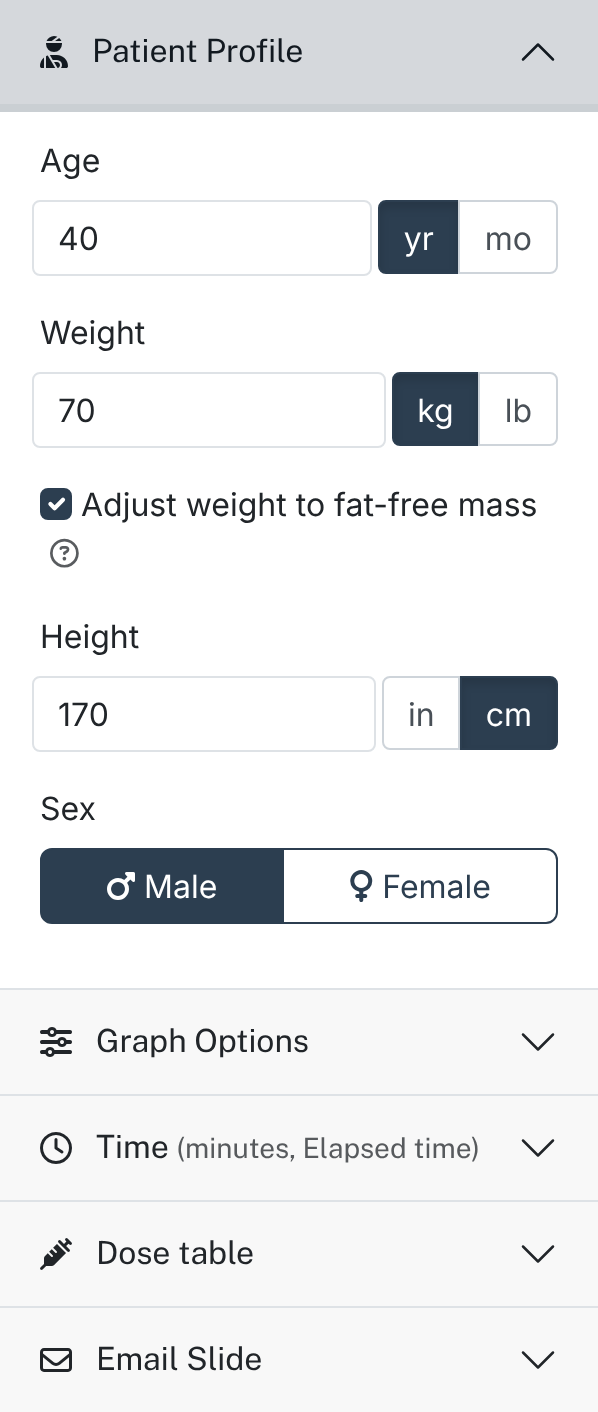
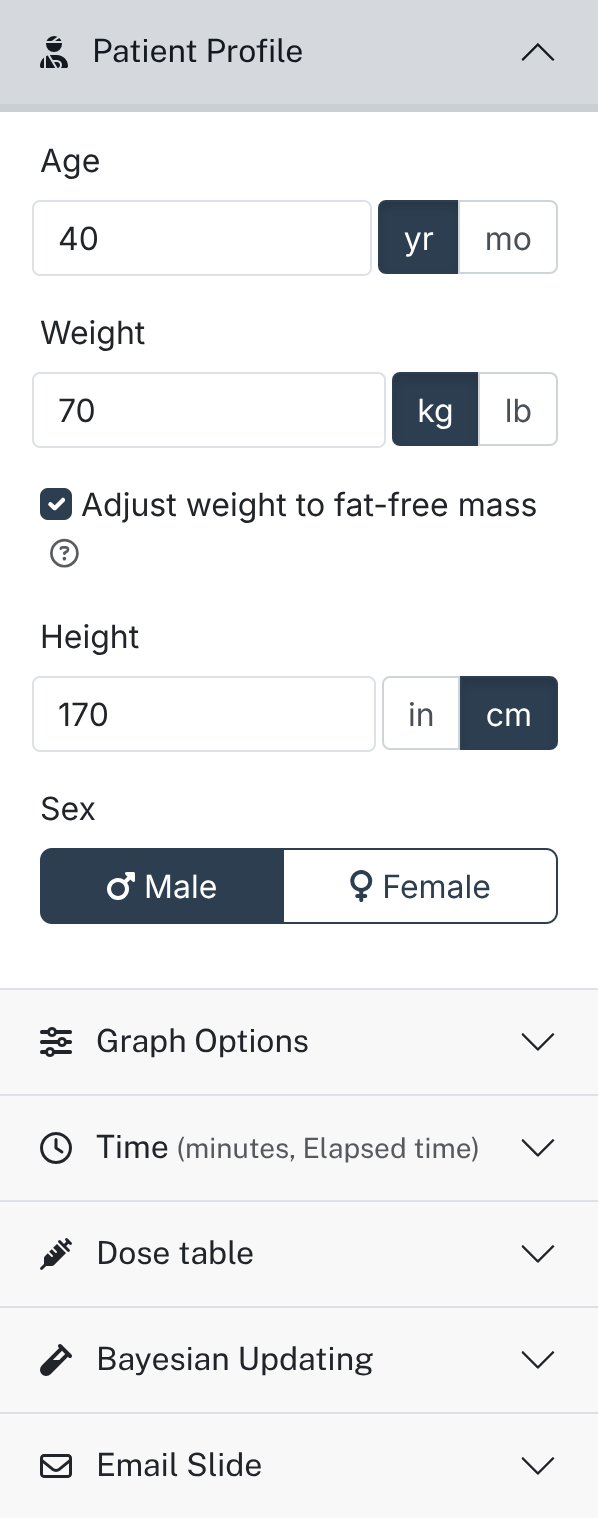
The five-minute tour: step 7, Bayesian updating
The tour (inst/help/quick-start.md) gains a seventh step, "Update from
measured levels": what the Bayesian Updating panel's table, sliders and
estimate are, and what the points, the updated curve and the population
line on the plot mean, with a picture made from a new teaching scenario.
The help's home page says the curves are the model's prediction unless
measurements are entered, and lists the panel among the sidebar's.

A teaching scenario can now carry measured concentrations
(helpScenario(measurements = helpMeasurements(...))), checked against its
doses and its plot by helpScenarioCheck(), listed on its page with the two
variabilities, and put into the panel by applyHelpScenario() (a scenario
without them clears the table; both sliders are set).  The first is
warfarin-bayesian-inr: genotype untested, so the model assumes VKORC1 AA
and predicts an INR heading for 4 on 5 mg/day; INRs of 1.3, 1.6, 1.9 and
2.2 on days 3-10 give clearance x1.45, volume x1.3, and an updated INR
settling near 2.4.

A ?scenario= link loads its scenario while app_server() is still running,
so bayesianServer() is now created before helpServer(); created after it,
a link to a scenario with measurements would have ended the session
(tested).

data-raw/help-screenshots.js makes the new picture and takes
--no-visualizer; the tour's other pictures are recaptured with it, since
every sidebar picture showed the panel headers from before Bayesian
[…]

diff --git a/data-raw/help-screenshots.js b/data-raw/help-screenshots.js
@@ -9,10 +9,14 @@
 //    "stanpumpR" and whose debug is 0 (no Debug Section under the plot):
 //      Rscript -e 'devtools::load_all("."); shiny::runApp(run_app(), port = 7788)'
 // 2. From the repository root, with Playwright installed:
-//      node data-raw/help-screenshots.js [http://127.0.0.1:7788] [--visualizer]
+//      node data-raw/help-screenshots.js [http://127.0.0.1:7788] [--visualizer | --no-visualizer]
 //    --visualizer remakes only the Visualizer's four pictures (a drug and an
 //    inhaled anesthetic, each in the 2D and the 3D view), from the
-//    visualizer-propofol-bolus and visualizer-sevoflurane-emergence scenarios.
+//    visualizer-propofol-bolus and visualizer-sevoflurane-emergence scenarios;
+//    --no-visualizer remakes every picture but those four.
+//
+// Step 7's picture, the Bayesian Updating panel, is made from the
+// warfarin-bayesian-inr scenario, which carries four measured INRs.
 //
 // Every capture is at twice the CSS pixel size, as the help displays them
 // scaled down.
@@ -22,6 +26,7 @@ const path = require('path');
 
 const BASE = (process.argv.slice(2).find(a => !a.startsWith('--')) || 'http://127.0.0.1:7788').replace(/\/+$/, '');
 const ONLY_VISUALIZER = process.argv.includes('--visualizer');
+const NO_VISUALIZER = process.argv.includes('--no-visualizer');
 const OUT = path.join(__dirname, '..', 'inst', 'www', 'help');
 const SCENARIO = 'propofol-induction-maintenance';
 const VIEWPORT = { width: 1400, height: 820 };
@@ -82,8 +87,10 @@ async function visualizer(browser, scenario, T, name) {
   // The Visualizer (step 6 of the tour): a propofol bolus at 1.6 minutes, its
   // effect site at its peak; sevoflurane five minutes after the vaporizer is
   // turned off.
-  await visualizer(browser, 'visualizer-propofol-bolus', 96, 'propofol');
-  await visualizer(browser, 'visualizer-sevoflurane-emergence', 125 * 60, 'sevoflurane');
+  if (!NO_VISUALIZER) {
+    await visualizer(browser, 'visualizer-propofol-bolus', 96, 'propofol');
+    await visualizer(browser, 'visualizer-sevoflurane-emergence', 125 * 60, 'sevoflurane');
+  }
   if (ONLY_VISUALIZER) { await browser.close(); return; }
 
   // The opening dialog, as on a first visit (a fresh browser has no record
@@ -126,6 +133,25 @@ async function visualizer(browser, scenario, T, name) {
     await openPanel(page, 'Graph Options');
     await openPanel(page, 'time');
     await sidebar.screenshot({ path: out('time') });
+    await page.close();
+  }
+
+  // Bayesian updating (step 7 of the tour): the warfarin scenario, whose four
+  // measured INRs go into the Bayesian Updating table, with that panel open
+  // once the estimate is written under it; the whole window, so the panel and
+  // the plot (the points, the updated line and the population line) are seen
+  // together.
+  {
+    const page = await browser.newPage({ viewport: { width: VIEWPORT.width, height: 1240 },
+                                          deviceScaleFactor: 2 });
+    await page.goto(`${BASE}/?scenario=warfarin-bayesian-inr`);
+    await page.waitForSelector('#PlotSimulation img', { timeout: 60000 });
+    await settle(page, 2000);
+    await page.addStyleTag({ content: '#shiny-notification-panel { display: none !important; }' });
+    await openPanel(page, 'bayes');
+    await page.waitForSelector('#bayesSummary .bayes-fit', { timeout: 120000 });
+    await settle(page, 2000);
+    await page.screenshot({ path: out('bayesian') });
     await page.close();
   }
 

diff --git a/AGENTS.md b/AGENTS.md
@@ -43,7 +43,7 @@ First-time local setup: copy `config.yml.sample` → `config.yml`
 
 **Antiseizure drug interactions** (`R/antiseizureInteractions.R`): Graph Options **Include antiseizure drug interactions** (`input$antiseizureInteractions`, scenario option `antiseizureInteractions`, enabled while the dose table holds an interacting pair or carbamazepine) applies the pharmacokinetic interactions among the epilepsy drugs — enzyme induction (carbamazepine, phenytoin, phenobarbital) of lamotrigine, valproate, topiramate, tiagabine, lacosamide, eslicarbazepine, cenobamate, zonisamide (Silva 2025 `1.63^INDDL`) and ethosuximide (Giaccone 1996, pooled `CL x1.66`), ethosuximide's own induction of lamotrigine (Hagemann 2024, adult `CL x1.16`; larger in children), inhibition and albumin displacement (valproate, including a variable `CL x0.85` on ethosuximide from Pisani 1984), zonisamide on phenytoin's Km, and carbamazepine's autoinduction. The interactions and their verified PMIDs are `inst/extdata/antiseizureInteractions.csv` (built by `data-raw/antiseizureInteractions.R`, checked by `test-antiseizure-interactions.R`); 35 applied rows, the four required victims (phenytoin, valproate, lamotrigine, carbamazepine) among them, plus zonisamide and ethosuximide as victims and ethosuximide as a perpetrator (lacosamide is induced by all three of carbamazepine, phenobarbital and phenytoin — the phenytoin row from Contin 2013, `CL x1.44`); 14 cross-check rows (the consensus reviews Patsalos & Perucca 2003, Riva 1996, Spina 1996, Tanaka 1999 and the secondary lamotrigine/zonisamide/valproate-binding/ethosuximide studies) and 10 recorded (not applied). Several inducer factors (topiramate, tiagabine, lacosamide, ethosuximide) are *pooled* any-inducer covariates applied per inducer row, which over-predicts a multi-inducer regimen under additive-excess — a structural limitation flagged in `docs/antiseizure-interactions-review.md` for the engine-level review. Each interaction is a saturable function of the perpetrator's own plotted concentration, `fold(C) = 1 + (Fmax-1) C/(EC50+C)`, calibrated so `fold(Cref)` is the published categorical factor at the perpetrator's typical band value `Cref` (EC50 defaults to the band's lower edge; `ec50_basis` records it); inductions run through an enzyme-turnover model `dE/dt = kdeg(fold-E)` with a de-induction half-life of 86.1 h (Punyawudho 2009), inhibition and displacement are immediate. Several inducers of one victim add in their excess, `1 + sum(Ei-1)`; inhibitions multiply. `processdoseTable(..., antiseizureInteractions = TRUE)` calls `applyAntiseizureInteractions()` after every drug is simulated alone: it computes each victim's multipliers from the perpetrators' concentrations, cuts them into near-constant segments (`asmSegments()`, `ASM_INTERACTION_TOLERANCE`), rebuilds the victim's PK with one set per clearance segment (`asmSegmentPK()`, which needs the covariates `getDrugPK()` now keeps for every `asmInteractionVictims()` drug) and re-simulates through the event engine, or for phenytoin feeds Vmax/Km multipliers to `advanceMichaelisMenten()` via `PK$interactionMM`; victims are also perpetrators, so it iterates to a fixed point (`ASM_INTERACTION_CONVERGENCE`, `ASM_INTERACTION_MAX_ITERATIONS`). `simCpCe()` reads a victim's segment events from `PK$interactionEvents`. Each changed drug is drawn beside its own uninteracted curve through the companion mechanism (`addAntiseizureReferenceEntries()` builds a `companionOf` entry `"<drug> (no interactions)"`; `alternativeModelParent()` maps it back). Help page `inst/help/models/antiseizure-interactions.md` (generated blocks `antiseizure-interaction-table`, `antiseizure-interaction-sources`); scenarios `valproate-lamotrigine-inhibition`, `carbamazepine-lamotrigine-deinduction`, `carbamazepine-autoinduction`, `phenytoin-valproate-displacement`, `carbamazepine-phenytoin-induction`. Not modelled: unbound phenytoin (totals are plotted), metabolites (the epoxide), drugs outside the group, and any interaction only a product label quantifies (rows with `status` `recorded`).
 
-**Bayesian updating** (`R/bayesian.R`, `R/bayesian-server.R`; Shafer, 2026-11-13; help page `inst/help/models/bayesian.md`): a sidebar panel, **Bayesian Updating**, holds a table grid of measured concentrations (Drug, from the committed dose table; Time, typed in the dose table's format and kept as text with the format it was typed in, converted when the format changes; Conc., in the units of the drug's plot, so the INR for warfarin and the ACT for heparinCPB) and two sliders, **PK variability** (CV %, default 25) and **Residual variability** (CV %, default 5; named "residual", not "assay", by Shafer, because it also carries timing and model error). A complete row takes effect as it is entered (the grid sends every commit; debounced, no Apply). `bayesUpdate()` in `app_server()` sits between `drugPK()` and `processdoseTable()`: `bayesianUpdateDrugs()` finds the maximum a posteriori **clearance and volume factors** of each measured drug and rebuilds it through `getDrugPK(individual = list(clearance, volume))`, which applies `individualizeModel()` to the model's own parameters before anything is derived. The scaling is BAYES.C's (the original STANPUMP, Maitre and Shafer: CL and V1 estimated, k12/k21/k13/k31 fixed), for every engine: the volume factor multiplies every volume AND every intercompartmental clearance (so the distribution rate constants are the model's); the clearance factor multiplies cl1, a Michaelis-Menten drug's Vmax and clLinear (Km unchanged); a metabolite's kFormation moves by clearance/volume (with k10); parallel systems (warfarin's R) take both factors; a target capacity held as an amount moves with the volume. Absorption, bioavailability, ke0/tPeak and the INR/ACT links are the model's. `PK$individual` is kept so `doseSizePK()` and `asmSegmentPK()` rebuild the individual's drug. Both variabilities are **log-normal** (Shafer: a parameter or a concentration cannot go negative; 0.1X is as far as 10X): eta = log(factor), sd `bayesianSD(cv) = sqrt(log(1 + cv^2))`, objective `sum(eta^2)/omega^2 + sum((log meas - log pred)^2)/sigma^2` (Vozeh 1985, as BAYES.C's funk(); only the ratio omega/sigma moves the estimate), `optim()` L-BFGS-B from 0 within `BAYES_FACTOR_LIMIT` (20x) either way. The prediction is what the plot draws: `processdoseTable()` on the drug (plus its metabolite parents, or every drug with the antiseizure interactions on) under `withOutputTimes()`, `$wide$Plasma`; drugs are updated in dose-table order. A level at or before the drug's first dose is set aside and said; fits are cached by key (`bayesFitCache`). The model's own drug is kept as a companion entry `"<drug> (population)"` (`companionGroup` "bayesian", `helpPage` models/bayesian; `alternativeModelParent()` maps it back; `foldMetabolites()` now skips every companion as a metabolite source, which this companion would otherwise double), and `simulationPlot(observations =)` draws the measurements as points on the drug's panel (not under normalization). The measurements travel in a bookmark as `state$values$bayes` (minutes), read back as untrusted input by `restoredBayesObservations()`. Checked against **mapbayr** 0.10.2 (Le Louedec 2021) on an mrgsolve two-compartment vancomycin with the same priors and log-transformed residual: factors 0.6111885/0.7970002 against ours 0.6111886/0.7970008; `test-bayesian.R` pins those values and reruns mapbayr live where it is installed (it is not a dependency). The original STANPUMP's generic case entered omega 0.26 and sigma 0.05 commented as "30%", but funk() divides by them unsquared, so they acted as variances (about 51% and 22% CV) — recorded in `R/constants.R`, not reproduced.
+**Bayesian updating** (`R/bayesian.R`, `R/bayesian-server.R`; Shafer, 2026-11-13; help page `inst/help/models/bayesian.md`): a sidebar panel, **Bayesian Updating**, holds a table grid of measured concentrations (Drug, from the committed dose table; Time, typed in the dose table's format and kept as text with the format it was typed in, converted when the format changes; Conc., in the units of the drug's plot, so the INR for warfarin and the ACT for heparinCPB) and two sliders, **PK variability** (CV %, default 25) and **Residual variability** (CV %, default 5; named "residual", not "assay", by Shafer, because it also carries timing and model error). A complete row takes effect as it is entered (the grid sends every commit; debounced, no Apply). `bayesUpdate()` in `app_server()` sits between `drugPK()` and `processdoseTable()`: `bayesianUpdateDrugs()` finds the maximum a posteriori **clearance and volume factors** of each measured drug and rebuilds it through `getDrugPK(individual = list(clearance, volume))`, which applies `individualizeModel()` to the model's own parameters before anything is derived. The scaling is BAYES.C's (the original STANPUMP, Maitre and Shafer: CL and V1 estimated, k12/k21/k13/k31 fixed), for every engine: the volume factor multiplies every volume AND every intercompartmental clearance (so the distribution rate constants are the model's); the clearance factor multiplies cl1, a Michaelis-Menten drug's Vmax and clLinear (Km unchanged); a metabolite's kFormation moves by clearance/volume (with k10); parallel systems (warfarin's R) take both factors; a target capacity held as an amount moves with the volume. Absorption, bioavailability, ke0/tPeak and the INR/ACT links are the model's. `PK$individual` is kept so `doseSizePK()` and `asmSegmentPK()` rebuild the individual's drug. Both variabilities are **log-normal** (Shafer: a parameter or a concentration cannot go negative; 0.1X is as far as 10X): eta = log(factor), sd `bayesianSD(cv) = sqrt(log(1 + cv^2))`, objective `sum(eta^2)/omega^2 + sum((log meas - log pred)^2)/sigma^2` (Vozeh 1985, as BAYES.C's funk(); only the ratio omega/sigma moves the estimate), `optim()` L-BFGS-B from 0 within `BAYES_FACTOR_LIMIT` (20x) either way. The prediction is what the plot draws: `processdoseTable()` on the drug (plus its metabolite parents, or every drug with the antiseizure interactions on) under `withOutputTimes()`, `$wide$Plasma`; drugs are updated in dose-table order. A level at or before the drug's first dose is set aside and said; fits are cached by key (`bayesFitCache`). The model's own drug is kept as a companion entry `"<drug> (population)"` (`companionGroup` "bayesian", `helpPage` models/bayesian; `alternativeModelParent()` maps it back; `foldMetabolites()` now skips every companion as a metabolite source, which this companion would otherwise double), and `simulationPlot(observations =)` draws the measurements as points on the drug's panel (not under normalization). The measurements travel in a bookmark as `state$values$bayes` (minutes), read back as untrusted input by `restoredBayesObservations()`, and in a teaching scenario as `helpScenario(measurements = helpMeasurements(...))` (scenario `warfarin-bayesian-inr`, step 7 of the five-minute tour, `inst/help/quick-start.md`, whose picture `data-raw/help-screenshots.js` makes from it): `applyHelpScenario()` hands them to the panel's `restore()` (an empty table clears it) and sets both sliders, which is why `bayesianServer()` is created before `helpServer()` in `app_server()` — a `?scenario=` link loads its scenario while `app_server()` is still running. Checked against **mapbayr** 0.10.2 (Le Louedec 2021) on an mrgsolve two-compartment vancomycin with the same priors and log-transformed residual: factors 0.6111885/0.7970002 against ours 0.6111886/0.7970008; `test-bayesian.R` pins those values and reruns mapbayr live where it is installed (it is not a dependency). The original STANPUMP's generic case entered omega 0.26 and sigma 0.05 commented as "30%", but funk() divides by them unsquared, so they acted as variances (about 51% and 22% CV) — recorded in `R/constants.R`, not reproduced.
 
 **Dose table lifecycle**: edits land in a draft held by an `{undomanager}` (`doseTableHistory()`, with `doseTableDraft()` a thin reactive over its `$value`) that owns the undo/redo history; `Apply` commits it to the canonical `doseTable()`; `doseTableClean()` (cleaned via `cleanDoseTable()` in `input-tables.R`) is what the rest of the pipeline actually reads. Clicking the plot to add/edit a dose bypasses the draft and applies immediately, and any direct write to `doseTable()` resets the draft and clears the history.
 

diff --git a/inst/help/quick-start.md b/inst/help/quick-start.md
@@ -1,7 +1,7 @@
-Five steps produce a simulation, and a sixth lets you watch it: the Visualizer shows the drug moving between the compartments of its model. Everything else in this help is refinement.
+Five steps produce a simulation, a sixth lets you watch it (the Visualizer shows the drug moving between the compartments of its model), and a seventh fits it to the patient: Bayesian updating adjusts a drug's model to concentrations measured during care. Everything else in this help is refinement.
 
 <figure class="help-figure">
-<img src="stanpumpr-assets/help/quick-start-simulator.png" alt="The simulator: on the left the Patient Profile, Graph Options, Time, Dose table and Email Slide panels; the plot in the middle with the Add new drug button beneath it; the dose table on the right with Apply Changes, Undo and Redo">
+<img src="stanpumpr-assets/help/quick-start-simulator.png" alt="The simulator: on the left the Patient Profile, Graph Options, Time, Dose table, Bayesian Updating and Email Slide panels; the plot in the middle with the Add new drug button beneath it; the dose table on the right with Apply Changes, Undo and Redo">
 <figcaption>The simulator. Patient, graph and time settings on the left, the plot in the middle, the dose table on the right.</figcaption>
 </figure>
 
@@ -113,6 +113,24 @@ The **inhaled anesthetics** are shown the same way, as **partial pressures**: in
 </figure>
 
 [Watching a propofol bolus redistribute](help:scenarios/visualizer-propofol-bolus) and [Watching sevoflurane leave the body](help:scenarios/visualizer-sevoflurane-emergence) are the runs above, with what to look for; the other runs made to be watched are in the *Seeing the compartments* group of the [teaching scenarios](help:scenarios/index).
+
+## 7. Update from measured levels
+
+For a drug measured during care (an INR for warfarin; a level of amiodarone, phenytoin, digoxin, vancomycin or an immunosuppressant), open **Bayesian Updating** in the left sidebar. Each row of its table is one measurement: the *Drug* (any drug in the dose table), the *Time* it was drawn, typed as the dose table's times are, and the measured value in *Conc.*, in the units of that drug's plot (listed under the table; the INR for warfarin).
+
+<figure class="help-figure">
+<img src="stanpumpr-assets/help/quick-start-bayesian.png" alt="The simulator with the Bayesian Updating panel open: four warfarin INRs in its table, the PK variability slider at 25% and the Residual variability slider at 5%, the estimate (clearance and volume as multiples of the model's) and a table of measured, model and updated INRs; on the plot the four INRs as points, the updated INR line through them and the lighter warfarin (population) line above">
+<figcaption>Four INRs measured during a warfarin start. The updated line (dark) passes through them; the model's own prediction, <em>warfarin (population)</em>, stays beside it (light).</figcaption>
+</figure>
+
+A row takes effect as soon as it is complete; there is no Apply. stanpumpR then finds the clearance and volume that best balance the measurements against the model (a maximum a posteriori Bayesian estimate) and redraws the drug with them:
+
+- The **points** are the measurements, and the **updated curve** is the drug as the patient handles it. The model's own curve stays in the same panel, lighter, as *(population)*.
+- Under the table, the estimate is written out (clearance and volume as multiples of the model's), with each measurement beside the model's prediction and the updated one.
+- **PK variability** (25%) is how far the patient may be from the model; **Residual variability** (5%) is how far a measurement may be from the patient's own curve, which takes in the assay and errors in the recorded times. Raise the residual variability to trust each measurement less.
+- Everything downstream uses the updated drug: change a dose, and the prediction is the patient's.
+
+[Warfarin: updating the model from measured INRs](help:scenarios/warfarin-bayesian-inr) loads the run above. [Bayesian updating from measured concentrations](help:models/bayesian) explains what is estimated and its cautions.
 
 ## Try it
 

diff --git a/inst/help/scenarios/warfarin-bayesian-inr.md b/inst/help/scenarios/warfarin-bayesian-inr.md
@@ -1,0 +1,18 @@
+## What to look for
+
+A 62-year-old, 82 kg, 176 cm man is started on **warfarin 5 mg once a day**. His genotype has not been tested, so the Patient Profile keeps the defaults: CYP2C9 \*1/\*1 and **VKORC1 AA**, the most warfarin-sensitive genotype. stanpumpR assumes the most sensitive genotype on purpose, so that an untested patient's predicted INR errs high (see [Patient profile](help:patient-profile)). His INR is measured on the mornings of days 3, 5, 7 and 10, before that day's dose: **1.3, 1.6, 1.9 and 2.2**. The scenario puts those four values into the **Bayesian Updating** panel in the left sidebar. Open the panel to see them.
+
+- The measured INRs are the **points** on the *warfarin (INR)* panel. The **lighter line**, named *warfarin (population)* in the legend, is the model's own prediction for this patient: it passes well above the points and heads for an INR near 4.
+- The **darker line** is warfarin after the [Bayesian update](help:models/bayesian): the model's clearance and volume adjusted to the four measurements. Under the table the panel says by how much (*clearance x 1.45 (+45%), volume x 1.3 (+30%)*). The updated line passes close to every point and settles near **2.4**, inside the usual 2-3 target.
+- The small table under that gives each measured INR beside the model's prediction and the updated one.
+
+## Try next
+
+- Move **Residual variability** from 5% up to 20%. Each measurement now counts for less against the model, and the updated line moves back toward the population line. Only the ratio of the two variabilities changes the estimate.
+- Delete the day-10 INR from the table (or **Clear measurements** and type them in again one by one). Each row changes the estimate as soon as it is complete, and the fewer the measurements, the more the estimate keeps to the model.
+- Change **VKORC1** from AA to GG in the Patient Profile. The model's own prediction falls to near the measurements, and the update has much less to correct. The update attributes the whole difference to clearance and volume, because it has no way to tell a less sensitive patient from one who clears warfarin faster.
+- Change the dose in the dose table (to 4 mg a day from day 10, say) and press **Apply Changes**. The updated model, not the population one, predicts the INR on the new dose.
+
+## Background
+
+[Bayesian updating from measured concentrations](help:models/bayesian) explains what is estimated, the two variabilities, and the cautions. The INR model is the library's [warfarin](help:drugs/warfarin) (Xue 2017). It is a research and teaching model, and so is its update: a simulated INR is **not** a dose recommendation, a bleeding risk or a procedure-safe time.

diff --git a/inst/help/home.md b/inst/help/home.md
@@ -1,6 +1,6 @@
 stanpumpR predicts drug concentrations. You describe a patient and a dosing regimen, and it plots the plasma and effect-site concentrations those doses would be expected to produce, using pharmacokinetic models grounded in the peer-reviewed literature, with documented derivations, extrapolations and provisional assumptions where the literature itself leaves a gap (a route, a covariate or a parameter the source study did not measure). It is meant to make pharmacokinetics accessible: for patient care, for teaching, and for research.
 
-**stanpumpR does not control drug delivery and does not measure anything.** Every curve is a model's prediction for a typical patient with the covariates you entered. Real patients vary, sometimes a great deal, around those predictions. Please read [Cautions](help:cautions) once.
+**stanpumpR does not control drug delivery and does not measure anything.** Every curve is a model's prediction for a typical patient with the covariates you entered, unless you enter concentrations measured in the patient, which [Bayesian updating](help:models/bayesian) uses to adjust the drug's model to them. Real patients vary, sometimes a great deal, around those predictions. Please read [Cautions](help:cautions) once.
 
 ## Where to start
 
@@ -13,7 +13,7 @@ stanpumpR predicts drug concentrations. You describe a patient and a dosing regi
 
 | Region | What it does | Help page |
 |---|---|---|
-| Left sidebar | Patient covariates, graph options, additional plots, time settings, dose-table options, email; the arrow at its top collapses it | [Patient profile](help:patient-profile), [Graph options](help:graph-options) |
+| Left sidebar | Patient covariates, graph options, additional plots, time settings, dose-table options, measured concentrations (Bayesian updating), email; the arrow at its top collapses it | [Patient profile](help:patient-profile), [Graph options](help:graph-options), [Bayesian updating](help:models/bayesian) |
 | Plot | Predicted concentrations; hover, click and double-click act on it; *Add new drug* below it | [Reading the plot](help:reading-the-plot) |
 | Dose table | Where you describe the regimen, in a panel at the right that its arrow collapses | [The dose table](help:dose-table) |
 | Time panel (left sidebar) | Time units (minutes to weeks), Max time and Min time, elapsed or clock time | [Time display](help:time-display) |
